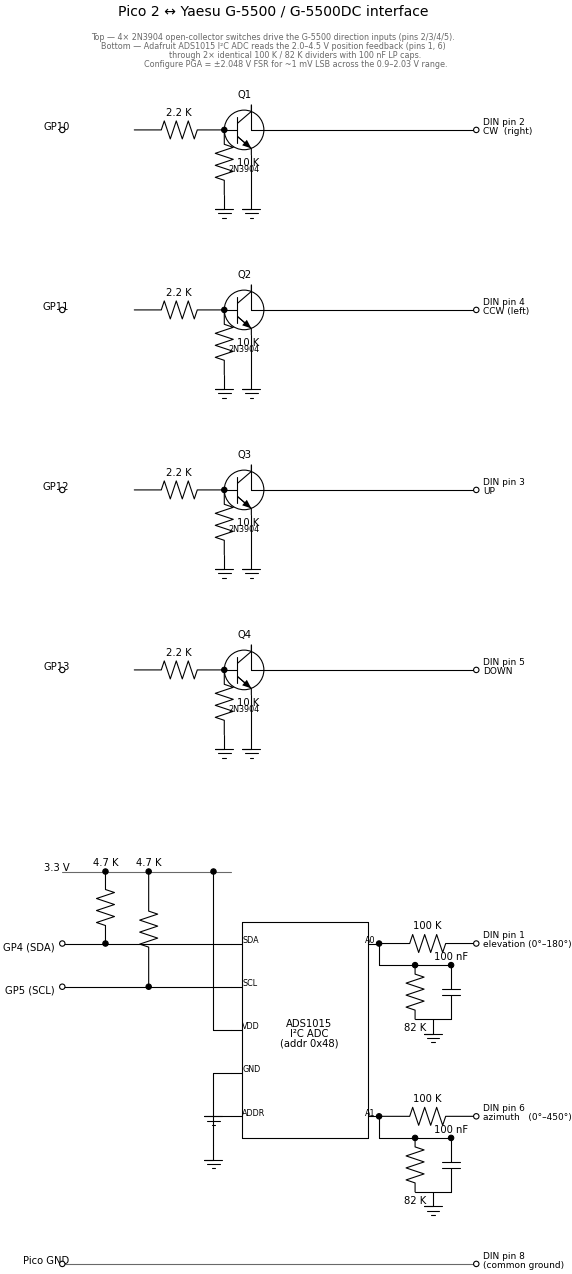
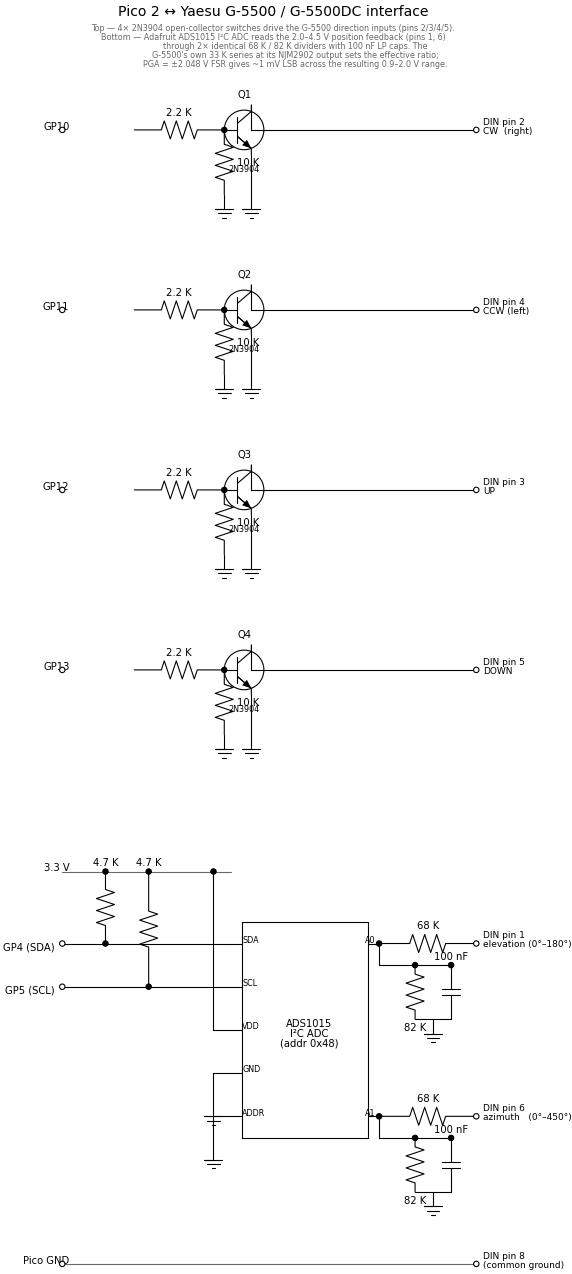
Re-size feedback dividers to 68 K / 82 K — NJM2902 + 33 K series
The service-manual page covering the actual feedback section shows what
the previous "pot section" page did not: an NJM2902 quad op-amp scales
the pot wiper, then a 33 K series resistor (R6010 / R6011) sits between
the op-amp output and the external DIN connector. So the source seen at
the DIN is neither a buffered ~0 Ω nor a raw few-kΩ pot — it's a clean
op-amp output behind a deliberate 33 K series, almost certainly there as
fault-current limiting at the external pin.

The 33 K is therefore in series with our divider whether we like it or
not:

    V_ADC = V_opamp × R_lo / (R_source + R_up + R_lo)

For V_ADC = 2.048 V at V_opamp = 4.5 V we need the ratio ≈ 0.455:

    R_lo / (33 + R_up + R_lo) = 0.455

Sweeping E12 pairs, 68 K / 82 K is the sweet spot:

    82 / (33 + 68 + 82) = 0.448
    4.5 V → 2.02 V  (99% of ±2.048 V FSR)
    2.0 V → 0.90 V
    span ~1.12 V across ~1120 codes
      → 0.16°/code on elevation, 0.40°/code on azimuth

Total divider impedance is 150 K + the G-5500's 33 K = 183 K to GND,
Thévenin into the ADS1015 ~37 K (well within its acquisition window at
any reasonable sample rate). The 100 nF parallel cap still gives a
~35 Hz LP for 50/60 Hz rejection.

Note that the G-5500 already has a 220 µH + 0.01 µF LC filter on this
line (L6004 / C6019 in the manual) at a ~107 kHz corner for RFI, so
our 35 Hz anti-aliasing filter complements rather than fights it.

Changed region(s): [[0.1783, 0.0, 0.8024, 0.0612], [0.7133, 0.8571, 0.7727, 0.8878], [0.7133, 0.7041, 0.7727, 0.7347]]

diff --git a/design/circuit.py b/design/circuit.py
@@ -41,24 +41,27 @@ Notes
   G-5500DC interface (same external-control pinout on both):
     direction channels — 2.2 K series base, 10 K base-to-emitter pull-down
                          (gives ~1.1 mA I_B, robust saturation of the 2N3904)
-    feedback dividers — 100 K upper, 82 K lower for **both** channels
-                        (ratio 0.451 → 4.5 V input → 2.03 V output, sits
-                        just under the ADS1015's ±2.048 V FSR PGA setting;
-                        sized high-Z to avoid loading the G-5500's
-                        un-buffered position pot)
+    feedback dividers — 68 K upper, 82 K lower for **both** channels.
+                        The G-5500's NJM2902 op-amp output drives a 33 K
+                        series resistor (R6010 / R6011 in the service
+                        manual) before the external DIN, so the effective
+                        ratio seen at the ADS1015 is 82 / (33 + 68 + 82)
+                        ≈ 0.448. That puts 4.5 V at the rotator's full
+                        scale into 2.02 V at the ADC — 99% of the ±2.048 V
+                        FSR PGA setting, ~1 mV LSB.
     feedback filter cap — 100 nF in parallel with R_lower
-                        (≈ 35 Hz LP with the 45 K Thévenin impedance,
+                        (≈ 35 Hz LP with the ~45 K Thévenin impedance,
                         rejects 50/60 Hz pickup at no cost to tracking
-                        bandwidth; the G-5500's own 4.7 nF / 1 kV cap
+                        bandwidth; the G-5500's own 220 µH + 0.01 µF LC
                         on the output handles the RFI-rate stuff)
     I²C pull-ups        — 4.7 K to 3.3 V on SDA and SCL
 * The ADS1015's ADDR pin is tied to GND for the default address 0x48.
 * These values assume the G-5500's direction inputs sink a few mA at
-  logic-low (typical for Yaesu controllers). The feedback divider is
-  sized for a worst-case un-buffered pot output of a few kΩ Thévenin —
-  if the service manual shows an op-amp buffer in the path we could
-  drop the dividers to 10 K / 8.2 K for a faster sample-acquire RC at
-  the ADS1015, but the higher-Z values are no-regret in the meantime.
+  logic-low (typical for Yaesu controllers).
+* The feedback-divider sizing comes from the service-manual page showing
+  an NJM2902 op-amp driving a 33 K series resistor to the external DIN.
+  If a different unit / revision shows a different series value, the
+  divider math is in the comment above the FEEDBACK_CHANNELS table.
 """
 
 import schemdraw
@@ -77,11 +80,11 @@ DIRECTION_CHANNELS = [
 
 FEEDBACK_CHANNELS = [
     # (ADS1015 input, G-5500 pin, R_upper, R_lower, what it measures)
-    # 100 K / 82 K keeps the same 0.451 ratio as 10 K / 8.2 K but loads
-    # the G-5500's (likely un-buffered) pot output by an order of magnitude
-    # less — see docs/HARDWARE.md.
-    ("A0", "pin 1", "100 K", "82 K", "elevation (0°–180°)"),
-    ("A1", "pin 6", "100 K", "82 K", "azimuth   (0°–450°)"),
+    # 68 K / 82 K accounts for the G-5500's NJM2902 op-amp + 33 K series
+    # output resistor (R6010 / R6011 in the service manual). Net divider
+    # math: V_ADC = V_pot × 82 / (33 + 68 + 82) ≈ 0.448. See HARDWARE.md.
+    ("A0", "pin 1", "68 K", "82 K", "elevation (0°–180°)"),
+    ("A1", "pin 6", "68 K", "82 K", "azimuth   (0°–450°)"),
 ]
 
 
@@ -351,8 +354,9 @@ def title(d: schemdraw.Drawing) -> None:
     d += elm.Label().label(
         "Top — 4× 2N3904 open-collector switches drive the G-5500 direction inputs (pins 2/3/4/5).\n"
         "Bottom — Adafruit ADS1015 I²C ADC reads the 2.0–4.5 V position feedback (pins 1, 6)\n"
-        "                  through 2× identical 100 K / 82 K dividers with 100 nF LP caps.\n"
-        "                  Configure PGA = ±2.048 V FSR for ~1 mV LSB across the 0.9–2.03 V range.",
+        "                  through 2× identical 68 K / 82 K dividers with 100 nF LP caps. The\n"
+        "                  G-5500's own 33 K series at its NJM2902 output sets the effective ratio;\n"
+        "                  PGA = ±2.048 V FSR gives ~1 mV LSB across the resulting 0.9–2.0 V range.",
         loc="top", fontsize=8, color="dimgray",
     ).at((X_DIN / 2, TITLE_Y - 1.4))
 

diff --git a/docs/HARDWARE.md b/docs/HARDWARE.md
@@ -105,24 +105,36 @@ The planned circuit (canonical version in
 - **Feedback**: the Pico does **not** sample the G-5500 directly with its
   on-chip ADC. Instead an Adafruit **ADS1015** I²C ADC sits between the
   G-5500 and the Pico, with its A0 and A1 inputs fed from the G-5500's
-  feedback pins through identical **100 K (upper) / 82 K (lower)**
-  resistor-dividers. That gives a ratio of 0.451, so the G-5500's 4.5 V
-  full-scale lands at 2.03 V — just under the ADS1015's tightest useful
-  PGA setting (±2.048 V FSR), which keeps the LSB at ≈ 1 mV. The reason
-  for the high-impedance divider is that the relevant page of the G-5500
-  service manual shows the feedback path traveling through the motor /
-  relay area with no op-amp buffer visible, so we treat the pot output
-  as effectively un-buffered. At 100 K + 82 K = 182 K input impedance
-  the divider loads a few-kΩ pot by under 1.5% at worst position
-  (≈ 1° of elevation error, ≈ 6° of azimuth error — both well inside
-  the deadband we'll run, and trivially absorbed by software calibration).
+  feedback pins through identical **68 K (upper) / 82 K (lower)**
+  resistor-dividers.
 
-  A **100 nF** cap in parallel with the lower resistor forms a ≈ 35 Hz
-  low-pass against 50/60 Hz pickup; the rotator's mechanical bandwidth
-  is well under 1 Hz so this costs us nothing in tracking speed. The
-  G-5500 already has a 4.7 nF / 1 kV cap on the feedback line for RFI
-  rejection at a much higher frequency, so the two filters complement
-  rather than fight each other.
+  The sizing is driven by what the G-5500's service manual actually
+  shows on the feedback path: an **NJM2902** quad op-amp scales the
+  position-pot wiper voltage, then a **33 K series resistor** (R6010
+  for azimuth, R6011 for elevation) sits between the op-amp output and
+  the external DIN connector — almost certainly there as fault-current
+  limiting at the external pin. The series 33 K is therefore part of
+  our divider whether we like it or not, so the effective ratio at the
+  ADS1015 is:
+
+  ```
+    V_ADC / V_opamp = R_lo / (R_source + R_up + R_lo)
+                    = 82  / (33      + 68    + 82  )
+                    ≈ 0.448
+  ```
+
+  At the G-5500's 4.5 V full-scale that gives **2.02 V** into the
+  ADS1015 — 99% of the ±2.048 V FSR PGA setting, which keeps the LSB
+  at ≈ 1 mV. The 2.0 V minimum maps to 0.90 V, so we get ~1120 useful
+  codes across the working range: 0.16°/code on elevation and
+  0.40°/code on azimuth.
+
+  A **100 nF** cap in parallel with the 82 K resistor forms a ≈ 35 Hz
+  low-pass with the resulting ~45 K Thévenin, rejecting 50/60 Hz pickup
+  without costing tracking bandwidth (the rotator's mechanical bandwidth
+  is well under 1 Hz). The G-5500 already has a 220 µH + 0.01 µF LC
+  filter (L6004 / C6019 in the manual) on the same line at a much higher
+  corner (≈ 107 kHz) for RFI, so the two filters complement each other.
 
   The Pico talks to the ADS1015 over I²C0 (GP4 = SDA, GP5 = SCL) with
   **4.7 K** pull-ups to 3.3 V. The ADS1015's ADDR pin is tied to GND,
